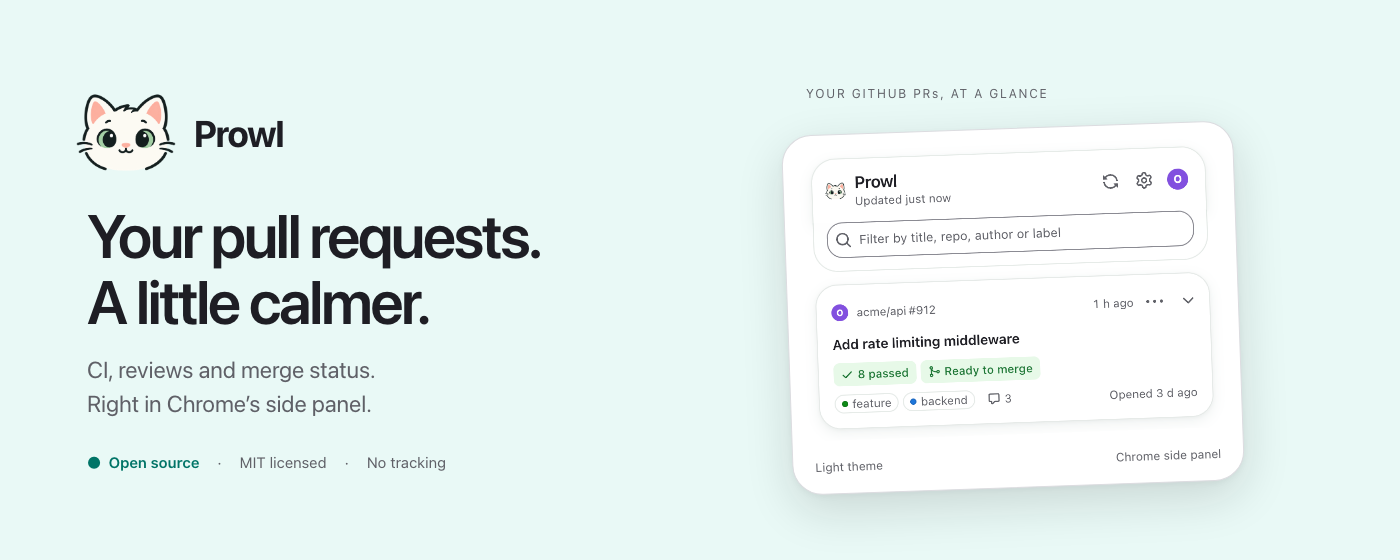
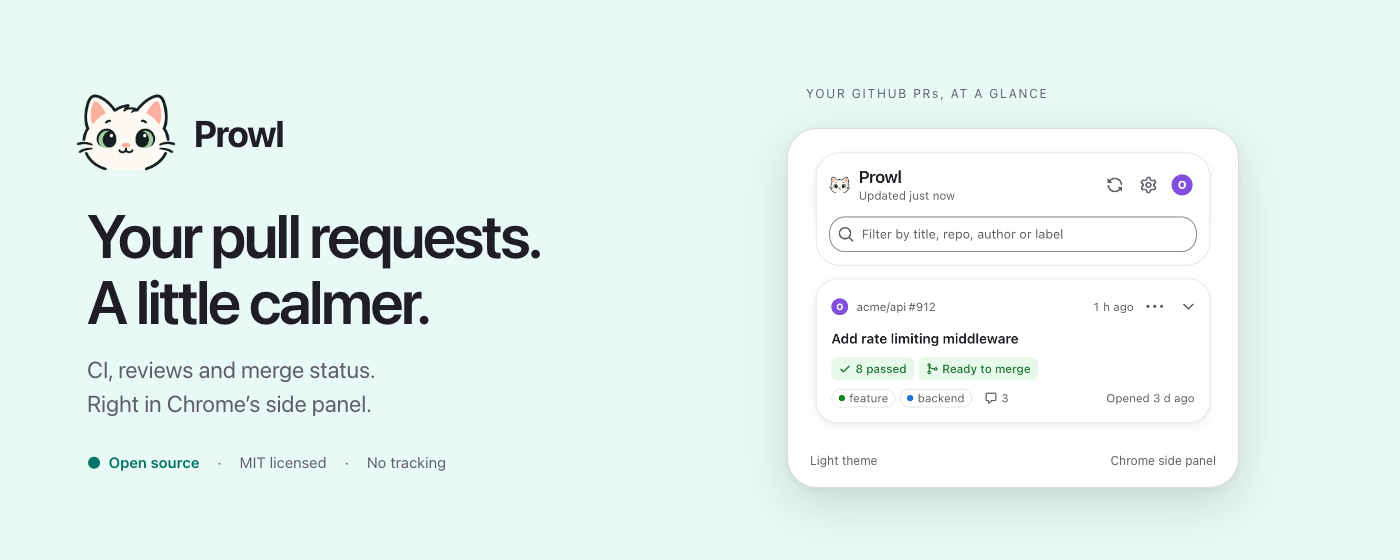
docs(store): straighten the marquee and isolate artwork capture
Remove the decorative tilt from the product preview. Move its PNG capture
out of the list behaviour tests into a dedicated artwork-only spec, skipped
unless PROWL_SCREENSHOTS=1. Document the capture location and regenerate the marquee.

diff --git a/tests/e2e/store-images.spec.ts b/tests/e2e/store-images.spec.ts
@@ -1,0 +1,48 @@
+// Generates the marquee's real UI preview; this is artwork setup, not a list behaviour test.
+// `pnpm screenshots` enables it. Regular E2E runs skip it before starting any fixtures.
+import { defaultSettings } from '../../src/lib/storage/settings';
+import { prId, searchResponse } from '../fixtures/github';
+import { expect, saveScreenshot, test } from './fixtures';
+import { authored } from './helpers/listData';
+
+test.skip(process.env.PROWL_SCREENSHOTS !== '1', 'Only run when generating artwork');
+
+const readyId = prId(912, 'acme/api');
+
+test('captures a ready-to-merge pull request for the store marquee', async ({
+  github,
+  seedStorage,
+  signIn,
+  poll,
+  openPanel,
+}) => {
+  github.onGraphQL('ProwlSearch', (variables) =>
+    searchResponse(
+      String(variables.query).includes('author:@me')
+        ? authored.filter((node) => node.id === readyId)
+        : [],
+      variables,
+    ),
+  );
+  await seedStorage({
+    settings: {
+      groupByRepo: false,
+      sections: defaultSettings().sections.map((section) => ({
+        ...section,
+        enabled: section.kind !== 'team_review_requested',
+      })),
+    },
+    prLocal: {
+      snoozed: {},
+      muted: {},
+      seen: { [readyId]: new Date().toISOString() },
+    },
+  });
+  await signIn();
+  await poll();
+  const panel = await openPanel();
+  await panel.emulateMedia({ colorScheme: 'light' });
+  await expect(panel.locator('.pr-card')).toHaveCount(1);
+  await expect(panel.getByText('Ready to merge', { exact: true })).toBeVisible();
+  await saveScreenshot(panel, 'list-ready');
+});

diff --git a/tests/e2e/list.spec.ts b/tests/e2e/list.spec.ts
@@ -57,38 +57,6 @@ async function recordMessages(worker: Worker) {
     );
 }
 
-test('captures a ready-to-merge pull request for the store marquee', async ({
-  github,
-  seedStorage,
-  signIn,
-  poll,
-  openPanel,
-}) => {
-  github.onGraphQL('ProwlSearch', (variables) =>
-    searchResponse(
-      String(variables.query).includes('author:@me')
-        ? authored.filter((node) => node.id === AUTHORED.rateLimit)
-        : [],
-      variables,
-    ),
-  );
-  await seedStorage({
-    settings: { groupByRepo: false, sections: allSections() },
-    prLocal: {
-      snoozed: {},
-      muted: {},
-      seen: { [AUTHORED.rateLimit]: new Date().toISOString() },
-    },
-  });
-  await signIn();
-  await poll();
-  const panel = await openPanel();
-  await panel.emulateMedia({ colorScheme: 'light' });
-  await expect(panel.locator('.pr-card')).toHaveCount(1);
-  await expect(panel.getByText('Ready to merge', { exact: true })).toBeVisible();
-  await saveScreenshot(panel, 'list-ready');
-});
-
 test.describe('with a rich set of pull requests', () => {
   test.beforeEach(async ({ context, github, seedStorage, signIn, poll }) => {
     github.onGraphQL('ProwlSearch', (variables) =>

diff --git a/docs/chrome-web-store.md b/docs/chrome-web-store.md
@@ -80,7 +80,9 @@ The API cannot create items, so the first version is uploaded in the
      Layouts and text are HTML/CSS in `scripts/store-images.mjs`, using the light mint
      `--color-accent-bg` token and `docs/brand/prowl-logo-transparent.png`. The marquee uses
      `list-ready.png`, captured from the real extension with a ready-to-merge demo PR by
-     `tests/e2e/list.spec.ts`; its preview crops one screenshot, without rearranging UI elements.
+     `tests/e2e/store-images.spec.ts`; its preview crops one screenshot, without rearranging UI
+     elements. This artwork-only scenario runs with `pnpm screenshots` and is skipped during
+     ordinary E2E runs.
    - Homepage: <https://aemard.github.io/prowl/>. Support: <https://github.com/aemard/prowl/issues>.
 4. **Privacy**
    - Single purpose: "Show the user's GitHub pull requests and their status in the side panel,
